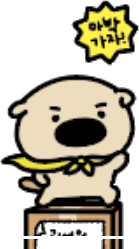
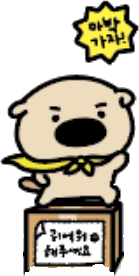
로그인 캐릭터: 바닥에 가려진 발까지 살려서 다시 오리고, 흰 띠 없이 주황 배경에 바로 세우기
Claude-Session: https://claude.ai/code/session_01FJjmZQXJu8nSrnZyJa9iVj

diff --git a/index.html b/index.html
@@ -7,7 +7,7 @@
 <link rel="preconnect" href="https://fonts.googleapis.com">
 <link rel="preconnect" href="https://fonts.gstatic.com" crossorigin>
 <link href="https://fonts.googleapis.com/css2?family=Noto+Sans+KR:wght@400;500;700&display=swap" rel="stylesheet">
-<link rel="stylesheet" href="style.css?v=20261102a">
+<link rel="stylesheet" href="style.css?v=20261102b">
 </head>
 <body>
 
@@ -23,22 +23,22 @@
   </form>
   <!-- 아트박스 캐릭터 (img/login/1~4.png, 없는 파일은 안 보임) -->
   <div class="login-chars" aria-hidden="true">
-    <img src="img/login/c01.png" alt="" style="--h:244;--d:0.37s;--b:85" onerror="this.remove()">
-    <img src="img/login/c02.png" alt="" style="--h:249;--d:0.74s" onerror="this.remove()">
-    <img src="img/login/c03.png" alt="" style="--h:222;--d:1.11s" onerror="this.remove()">
-    <img src="img/login/c04.png" alt="" style="--h:132;--d:1.48s" onerror="this.remove()">
-    <img src="img/login/c05.png" alt="" style="--h:231;--d:1.85s" onerror="this.remove()">
-    <img src="img/login/c06.png" alt="" style="--h:309;--d:2.22s" onerror="this.remove()">
-    <img src="img/login/c07.png" alt="" style="--h:190;--d:0.19s" onerror="this.remove()">
-    <img src="img/login/c08.png" alt="" style="--h:173;--d:0.56s" onerror="this.remove()">
-    <img src="img/login/c09.png" alt="" style="--h:162;--d:0.93s" onerror="this.remove()">
-    <img src="img/login/c10.png" alt="" style="--h:188;--d:1.30s" onerror="this.remove()">
-    <img src="img/login/c11.png" alt="" style="--h:127;--d:1.67s" onerror="this.remove()">
-    <img src="img/login/c12.png" alt="" style="--h:225;--d:2.04s" onerror="this.remove()">
-    <img src="img/login/c13.png" alt="" style="--h:234;--d:0.01s" onerror="this.remove()">
-    <img src="img/login/c14.png" alt="" style="--h:215;--d:0.38s" onerror="this.remove()">
-    <img src="img/login/c15.png" alt="" style="--h:246;--d:0.75s;--b:95" onerror="this.remove()">
-    <img src="img/login/c16.png" alt="" style="--h:354;--d:1.12s" onerror="this.remove()">
+    <img src="img/login/c01.png" alt="" style="--h:244;--b:87;--d:0.37s" onerror="this.remove()">
+    <img src="img/login/c02.png" alt="" style="--h:276;--b:-24;--d:0.74s" onerror="this.remove()">
+    <img src="img/login/c03.png" alt="" style="--h:249;--b:-25;--d:1.11s" onerror="this.remove()">
+    <img src="img/login/c04.png" alt="" style="--h:164;--b:-18;--d:1.48s" onerror="this.remove()">
+    <img src="img/login/c05.png" alt="" style="--h:265;--b:-20;--d:1.85s" onerror="this.remove()">
+    <img src="img/login/c06.png" alt="" style="--h:350;--b:-27;--d:2.22s" onerror="this.remove()">
+    <img src="img/login/c07.png" alt="" style="--h:217;--b:-26;--d:0.19s" onerror="this.remove()">
+    <img src="img/login/c08.png" alt="" style="--h:203;--b:-29;--d:0.56s" onerror="this.remove()">
+    <img src="img/login/c09.png" alt="" style="--h:210;--b:-32;--d:0.93s" onerror="this.remove()">
+    <img src="img/login/c10.png" alt="" style="--h:214;--b:-24;--d:1.30s" onerror="this.remove()">
+    <img src="img/login/c11.png" alt="" style="--h:149;--b:-20;--d:1.67s" onerror="this.remove()">
+    <img src="img/login/c12.png" alt="" style="--h:266;--b:-25;--d:2.04s" onerror="this.remove()">
+    <img src="img/login/c13.png" alt="" style="--h:273;--b:-23;--d:0.01s" onerror="this.remove()">
+    <img src="img/login/c14.png" alt="" style="--h:226;--b:-22;--d:0.38s" onerror="this.remove()">
+    <img src="img/login/c15.png" alt="" style="--h:246;--b:84;--d:0.75s" onerror="this.remove()">
+    <img src="img/login/c16.png" alt="" style="--h:396;--b:-41;--d:1.12s" onerror="this.remove()">
   </div>
 </div>
 
@@ -429,6 +429,6 @@
 <div id="toast"></div>
 
 <!-- 파일을 고치면 ?v= 숫자도 바꿀 것 (브라우저가 예전 파일을 쓰지 않도록) -->
-<script type="module" src="app.js?v=20261102a"></script>
+<script type="module" src="app.js?v=20261102b"></script>
 </body>
 </html>

diff --git a/style.css b/style.css
@@ -578,9 +578,9 @@ body:not([data-level]) #app nav, body[data-level=""] #app nav, body[data-level="
 .dw-band { position: absolute; border: 1.5px dashed var(--or); background: rgba(247,147,30,.12); pointer-events: none; z-index: 5; }
 
 /* 로그인 화면 아래: 아트박스 캐릭터 진열창 (그림이 하나도 없으면 띠도 안 보임) */
-.login-chars { --s: .55; position: absolute; left: 0; right: 0; bottom: 0; display: flex; justify-content: center; align-items: flex-end; gap: 6px; padding-top: 10px; background: #fff; border-bottom: 10px solid #e4e4e4; box-shadow: inset 0 -3px 0 #c9c9c9; overflow: hidden; }
+.login-chars { --s: .55; position: absolute; left: 0; right: 0; bottom: 0; display: flex; justify-content: center; align-items: flex-end; gap: 6px; pointer-events: none; overflow: hidden; }
 .login-chars:not(:has(img)) { display: none; }
-.login-chars img { height: calc(var(--h) * var(--s) * 1px); width: auto; flex: none; display: block; margin-bottom: calc(var(--b, 0) * var(--s) * 1px); transform-origin: 50% 100%; animation: char-bob 2.4s ease-in-out var(--d, 0s) infinite; cursor: pointer; }
+.login-chars img { height: calc(var(--h) * var(--s) * 1px); width: auto; flex: none; display: block; margin-bottom: calc((var(--b, 0) + 34) * var(--s) * 1px); pointer-events: auto; transform-origin: 50% 100%; animation: char-bob 2.4s ease-in-out var(--d, 0s) infinite; cursor: pointer; }
 .login-chars img:hover { animation: char-jump .5s ease-out; }
 @keyframes char-bob { 50% { transform: translateY(-5px); } }
 @keyframes char-jump { 30% { transform: translateY(-22px) rotate(-4deg); } 60% { transform: translateY(0) scaleY(.92); } }

diff --git a/img/login/README.md b/img/login/README.md
@@ -4,5 +4,5 @@
 로그인 화면 아래 흰 띠에 왼쪽부터 차례로 서 있고, 살짝 위아래로 움직이며, 마우스를 올리면 폴짝 뜁니다.
 
 - 순서·크기·띄우는 높이는 `index.html`의 `.login-chars` 안 `<img>` 줄에서 바꿉니다.
-  - `--h` = 그림 높이(px, 그대로 두기) · `--b` = 바닥에서 띄우는 높이(풍선 든 캐릭터) · `--d` = 움직임 시작 시간
+  - `--h` = 그림 높이(px, 그대로 두기) · `--b` = 원래 그림의 바닥선 기준 높이(음수 = 발이 바닥선 아래, 풍선 든 캐릭터는 양수) · `--d` = 움직임 시작 시간
 - 캐릭터를 빼려면 그 `<img>` 줄을 지우면 됩니다. 파일이 없으면 그냥 안 보입니다.
